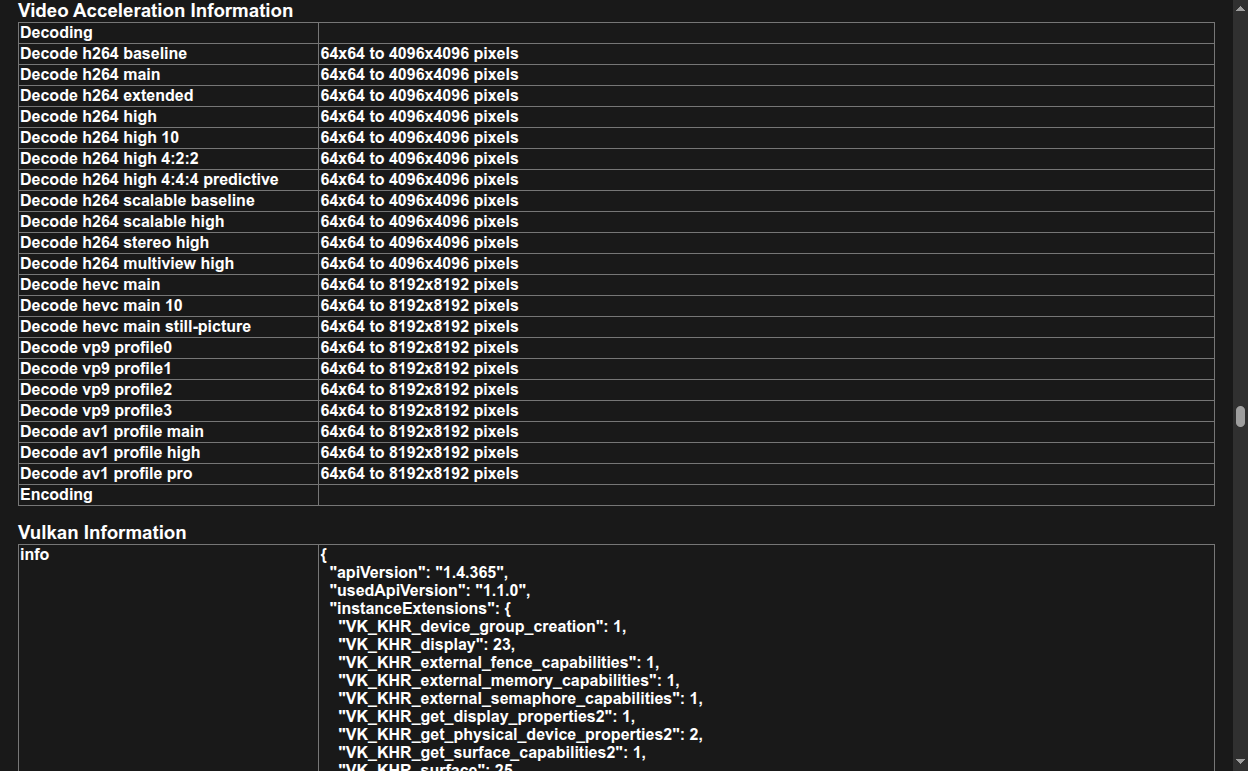
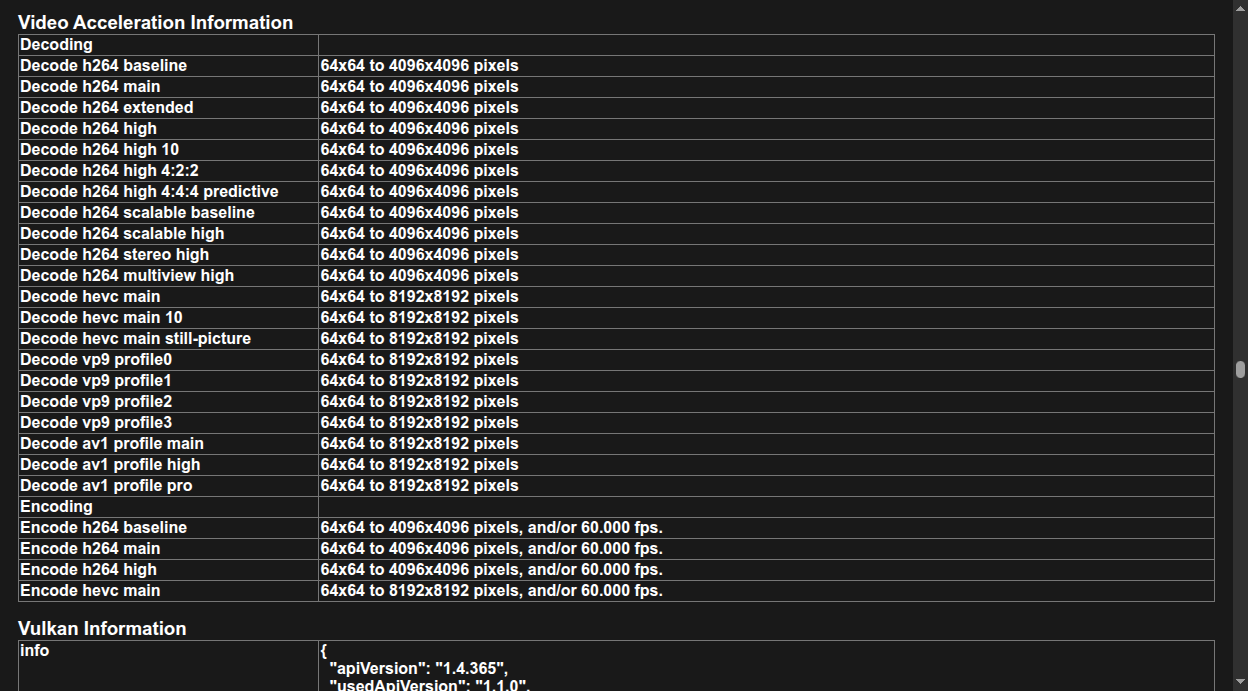
docs: combine decode and encode into video-acceleration.png

Changed region(s): [[0.0, 0.0, 0.9688, 1.0]]

diff --git a/README.md b/README.md
@@ -39,11 +39,8 @@ makepkg -si
 ### Driver Information (`GaneshVulkan` + `ANGLE_VULKAN`)
 ![Driver Information](docs/screenshots/driver-info.png)
 
-### Video Acceleration Information (`H.264`, `HEVC`, `VP9`, `AV1`)
+### Video Acceleration Information (Decode & Encode)
 ![Video Acceleration Information](docs/screenshots/video-acceleration.png)
-
-### Video Encode Acceleration (`H.264`, `HEVC`)
-![Video Encode Acceleration](docs/screenshots/video-encode.png)
 
 ## Notes & Limitations
 
